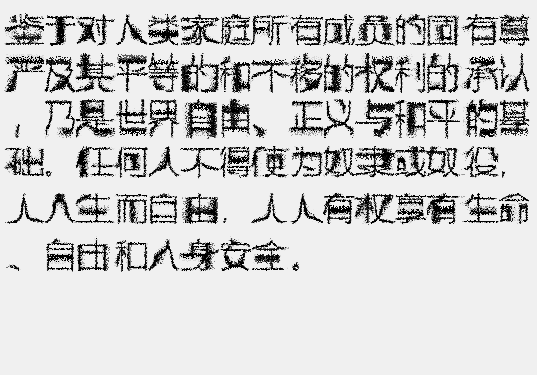
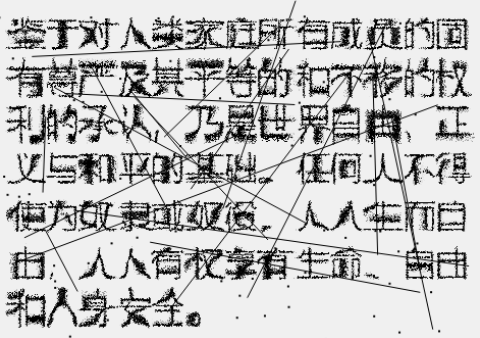
优化干扰算法和添加点线干扰

diff --git a/index.html b/index.html
@@ -1,8 +1,4 @@
 <!DOCTYPE html>
-<!--
- -- © 2024 molikai-work
- -- https://github.com/molikai-work/OCR-Interference
- -->
 <html lang="zh-CN">
 <head>
     <meta charset="UTF-8">
@@ -66,25 +62,32 @@
 </head>
 <body>
     <div id="controls">
-        <label for="maxChars">反OCR源文本：</label>
+        <label for="inputText">反OCR源文本：</label>
         <input type="text" id="inputText" placeholder="输入文本" value="鉴于对人类家庭所有成员的固有尊严及其平等的和不移的权利的承认，乃是世界自由、正义与和平的基础。任何人不得使为奴隶或奴役，人人生而自由，人人有权享有生命、自由和人身安全。">
-        <label for="maxChars">最大行字数:</label>
-        <input type="number" id="maxChars" value="20">
+        
+        <label for="maxChars">最大行字数：</label>
+        <input type="number" id="maxChars" value="26">
 
-        <label for="margin">边距:</label>
+        <label for="margin">边距：</label>
         <input type="number" id="margin" value="10">
 
-        <label for="fontSize">字体大小:</label>
+        <label for="fontSize">字体大小：</label>
         <input type="number" id="fontSize" value="35">
 
-        <label for="distortionLevel">失真级别:</label>
+        <label for="distortionLevel">失真级别：</label>
         <input type="number" id="distortionLevel" value="2">
 
-        <label for="waveFrequency">波频:</label>
+        <label for="waveFrequency">波频：</label>
         <input type="number" id="waveFrequency" value="4">
 
-        <label for="waveAmplitude">波幅:</label>
+        <label for="waveAmplitude">波幅：</label>
         <input type="number" id="waveAmplitude" value="3">
+
+        <label for="pointCount">随机点数量：</label>
+        <input type="number" id="pointCount" value="100">
+
+        <label for="lineCount">随机线数量：</label>
+        <input type="number" id="lineCount" value="20">
 
         <button id="generateButton">生成图像</button>
     </div>
@@ -95,16 +98,12 @@
         document.addEventListener('DOMContentLoaded', function() {
             const generateButton = document.getElementById('generateButton');
             generateButton.addEventListener('click', updateCanvas);
-
-            // 更新画布
-            updateCanvas();
+            updateCanvas(); // 初次加载页面时生成图像
         });
 
-        // 获取文本画布和绘图上下文
         const canvas = document.getElementById('textCanvas');
         const ctx = canvas.getContext('2d');
 
-        // 更新画布
         function updateCanvas() {
             const text = document.getElementById('inputText').value;
             const maxChars = parseInt(document.getElementById('maxChars').value);
@@ -113,89 +112,69 @@
             const distortionLevel = parseInt(document.getElementById('distortionLevel').value);
             const waveFrequency = parseInt(document.getElementById('waveFrequency').value);
             const waveAmplitude = parseInt(document.getElementById('waveAmplitude').value);
-            drawDistortedText(text, maxChars, margin, fontSize, distortionLevel, waveFrequency, waveAmplitude);
+            const pointCount = parseInt(document.getElementById('pointCount').value);
+            const lineCount = parseInt(document.getElementById('lineCount').value);
+
+            drawDistortedText(text, maxChars, margin, fontSize, distortionLevel, waveFrequency, waveAmplitude, pointCount, lineCount);
         }
 
-        // 绘制失真文本
-        function drawDistortedText(text, maxChars, margin, fontSize, distortionLevel, waveFrequency, waveAmplitude) {
-            // 初始化画布高度
-            let canvasHeight = margin * 2;
-            let totalLines = 0;
+        function drawDistortedText(text, maxChars, margin, fontSize, distortionLevel, waveFrequency, waveAmplitude, pointCount, lineCount) {
+            const lines = wrapText(ctx, text, maxChars, fontSize);
+            const lineHeight = fontSize + 10;
+            canvas.width = maxChars * (fontSize / 2) + 2 * margin;
+            canvas.height = lines.length * lineHeight + 2 * margin;
 
-            // 逐行绘制文本
-            while (true) {
-                const lines = Math.ceil(text.length / maxChars);
-                totalLines += lines;
-                const lineHeight = fontSize + 10;
-                const maxHeight = totalLines * lineHeight;
-                const height = maxHeight + margin * 2;
+            ctx.clearRect(0, 0, canvas.width, canvas.height);
+            ctx.font = `${fontSize}px Arial`;
+            ctx.fillStyle = 'black';
 
-                if (height > canvasHeight) {
-                    canvasHeight = height;
-                }
-
-                // 创建新的画布
-                canvas.width = maxChars * (fontSize / 2) + 2 * margin;
-                canvas.height = canvasHeight;
-
-                ctx.clearRect(0, 0, canvas.width, canvas.height);
-                ctx.font = `${fontSize}px Arial`;
-                ctx.fillStyle = 'black';
-
-                // 文本自动换行
-                let x = margin;
-                let y = margin + fontSize;
-                let line = '';
-
-                for (let i = 0; i < text.length; i++) {
-                    const char = text[i];
-                    const testLine = line + char;
-                    const metrics = ctx.measureText(testLine);
-                    const testWidth = metrics.width;
-
-                    // 如果当前行文本宽度超出了画布宽度则换行
-                    if (testWidth > maxChars * (fontSize / 2) && i > 0) {
-                        if (y + lineHeight > canvas.height) {
-                            break;
-                        }
-                        ctx.fillText(line, x, y);
-                        y += lineHeight;
-                        line = char;
-                    } else {
-                        line = testLine;
-                    }
-                }
-
-                // 绘制最后一行文本
-                ctx.fillText(line, x, y);
-
-                // 检查文本是否未超出画布高度，是则退出循环
-                if (y + lineHeight <= canvas.height) {
-                    break;
-                }
+            let y = margin + fontSize;
+            for (const line of lines) {
+                ctx.fillText(line, margin, y);
+                y += lineHeight;
             }
 
-            // 获取绘制文本后的图像数据
-            const imageData = ctx.getImageData(0, 0, canvas.width, canvas.height);
+            distortCanvas(ctx, canvas.width, canvas.height, distortionLevel, waveFrequency, waveAmplitude);
+            addRandomPoints(ctx, canvas.width, canvas.height, pointCount);
+            addRandomLines(ctx, canvas.width, canvas.height, lineCount);
+        }
+
+        function wrapText(ctx, text, maxChars, fontSize) {
+            const words = text.split('');
+            const lines = [];
+            let line = '';
+            for (const word of words) {
+                const testLine = line + word;
+                const metrics = ctx.measureText(testLine);
+                const testWidth = metrics.width;
+                if (testWidth > maxChars * (fontSize / 2) && line.length > 0) {
+                    lines.push(line);
+                    line = word;
+                } else {
+                    line = testLine;
+                }
+            }
+            lines.push(line);
+            return lines;
+        }
+
+        function distortCanvas(ctx, width, height, distortionLevel, waveFrequency, waveAmplitude) {
+            const imageData = ctx.getImageData(0, 0, width, height);
             const data = imageData.data;
+            const distortedData = new Uint8ClampedArray(data);
 
-            // 创建扭曲文本的图像数据
-            const distortedImageData = ctx.getImageData(0, 0, canvas.width, canvas.height);
-            const distortedData = distortedImageData.data;
-
-            // 添加波形失真
-            for (let y = 0; y < canvas.height; y++) {
+            for (let y = 0; y < height; y++) {
                 const yDistortion = Math.sin(y / waveFrequency) * waveAmplitude;
-                for (let x = 0; x < canvas.width; x++) {
+                for (let x = 0; x < width; x++) {
                     const xDistortion = Math.sin(x / waveFrequency) * waveAmplitude;
                     const dx = Math.floor(xDistortion + distortionLevel * (Math.random() - 0.5));
                     const dy = Math.floor(yDistortion + distortionLevel * (Math.random() - 0.5));
                     const sx = x + dx;
                     const sy = y + dy;
-                    const si = (sx + sy * canvas.width) * 4;
-                    const di = (x + y * canvas.width) * 4;
+                    const si = (sx + sy * width) * 4;
+                    const di = (x + y * width) * 4;
 
-                    if (sx >= 0 && sx < canvas.width && sy >= 0 && sy < canvas.height) {
+                    if (sx >= 0 && sx < width && sy >= 0 && sy < height) {
                         distortedData[di] = data[si];
                         distortedData[di + 1] = data[si + 1];
                         distortedData[di + 2] = data[si + 2];
@@ -204,8 +183,28 @@
                 }
             }
 
-            // 绘制扭曲后的文本
-            ctx.putImageData(distortedImageData, 0, 0);
+            ctx.putImageData(new ImageData(distortedData, width, height), 0, 0);
+        }
+
+        function addRandomPoints(ctx, width, height, count) {
+            for (let i = 0; i < count; i++) {
+                const x = Math.random() * width;
+                const y = Math.random() * height;
+                ctx.fillRect(x, y, 2, 2); // 绘制一个2x2的点
+            }
+        }
+
+        function addRandomLines(ctx, width, height, count) {
+            for (let i = 0; i < count; i++) {
+                const x1 = Math.random() * width;
+                const y1 = Math.random() * height;
+                const x2 = Math.random() * width;
+                const y2 = Math.random() * height;
+                ctx.beginPath();
+                ctx.moveTo(x1, y1);
+                ctx.lineTo(x2, y2);
+                ctx.stroke();
+            }
         }
     </script>
 </body>

diff --git a/README.md b/README.md
@@ -1,7 +1,7 @@
 # OCR-Interference
 一个简单的HTML页面，基于JS实现了通过文本生成抗OCR识别的图像。
 
-可以设置部分干扰参数。
+可以设置部分干扰参数或点线干扰。
 
 详见 `index.html` 文件
 
@@ -10,6 +10,6 @@
 
 > 鉴于对人类家庭所有成员的固有尊严及其平等的和不移的权利的承认，乃是世界自由、正义与和平的基础。任何人不得使为奴隶或奴役，人人生而自由，人人有权享有生命、自由和人身安全。
 
-干扰图像：（最大行字数30、失真级别2、波频4、波幅3）
+干扰图像：（失真级别2、波频4、波幅3、随机点数量100、随机线数量20）
 
 ![image](./image2.png)
